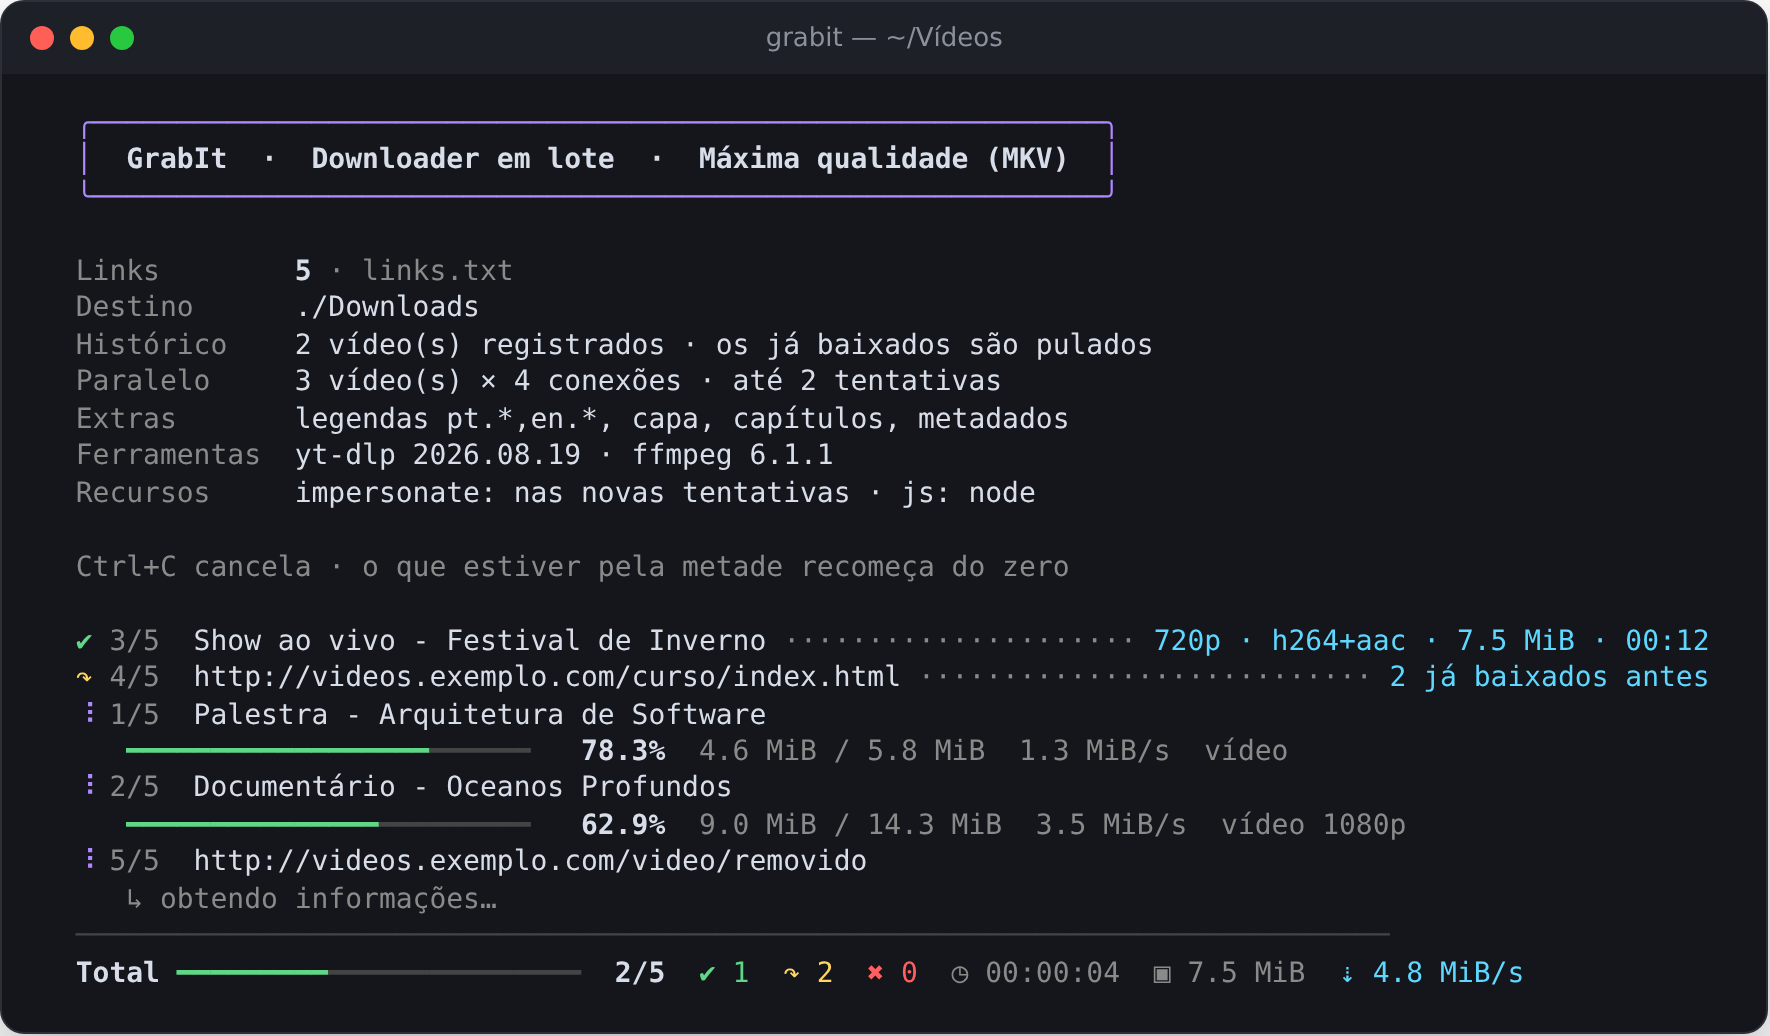
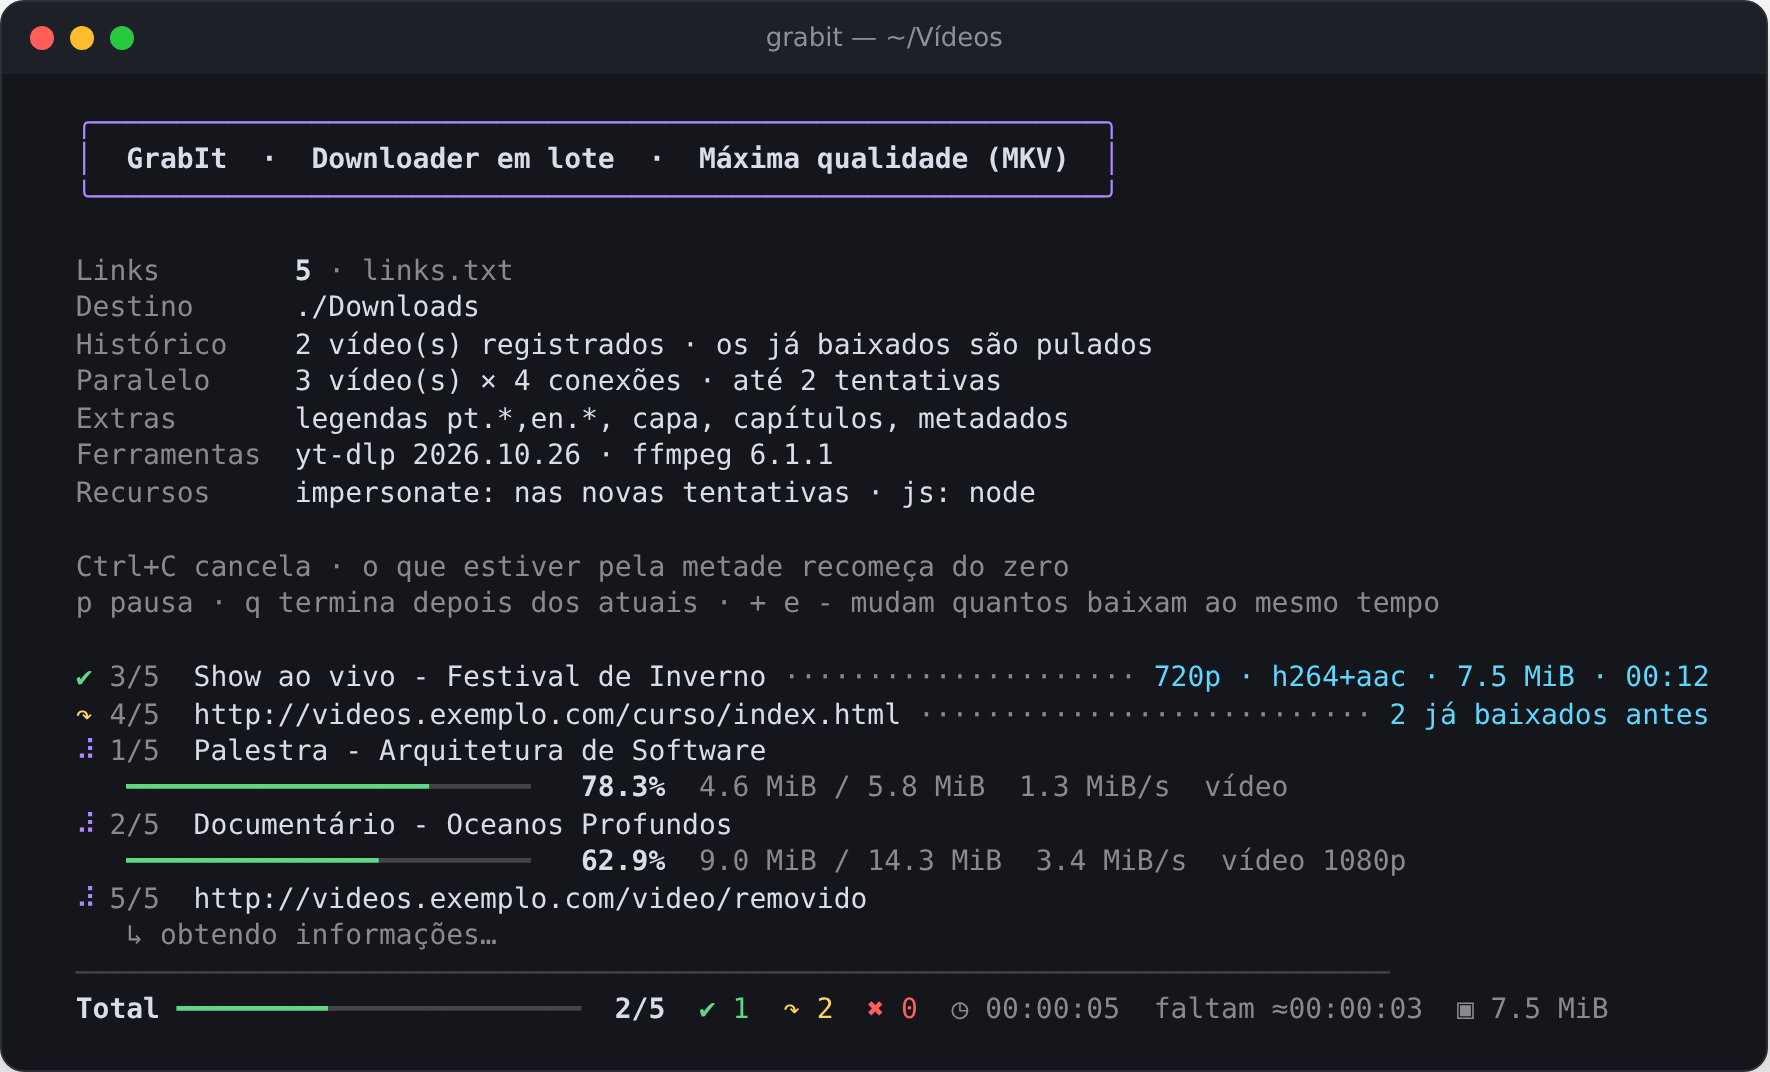
Capturas de tela atualizadas, com versões em inglês
- O painel e o resumo mostram o que mudou: o tempo restante do lote,
  as teclas (p, q, + e -) e a dica de atualização.
- README.en.md passa a usar capturas próprias, com o GrabIt e os
  vídeos de exemplo em inglês.

diff --git a/README.en.md b/README.en.md
@@ -22,7 +22,7 @@
 </p>
 
 <p align="center">
-  <img src="assets/demo.png" alt="GrabIt panel downloading several videos at once" width="860">
+  <img src="assets/demo-en.png" alt="GrabIt panel downloading several videos at once" width="860">
 </p>
 
 ## Why GrabIt?
@@ -247,7 +247,7 @@ There are also `ARQUIVO_HISTORICO` (where the download history lives) and `NO_CO
 ## A summary at the end
 
 <p align="center">
-  <img src="assets/resumo.png" alt="GrabIt final summary" width="860">
+  <img src="assets/resumo-en.png" alt="GrabIt final summary" width="860">
 </p>
 
 | Symbol | Meaning |
